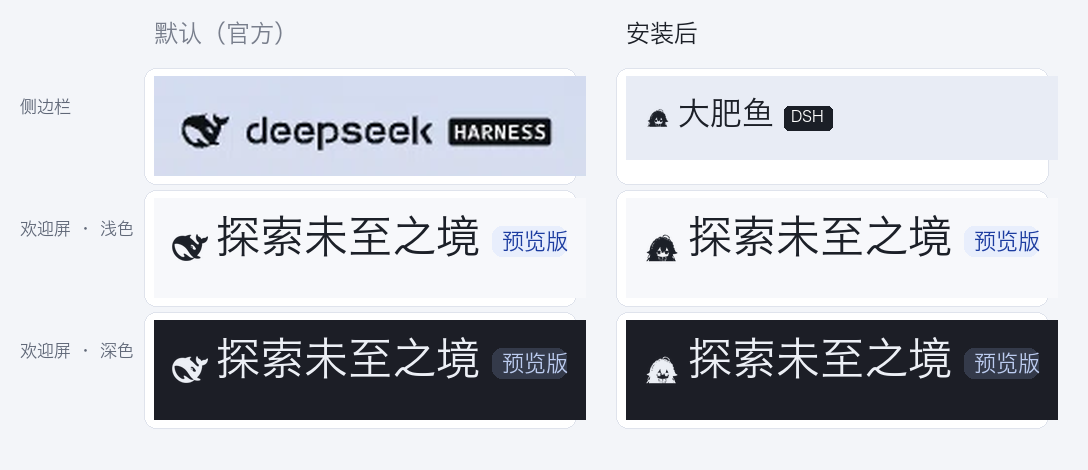
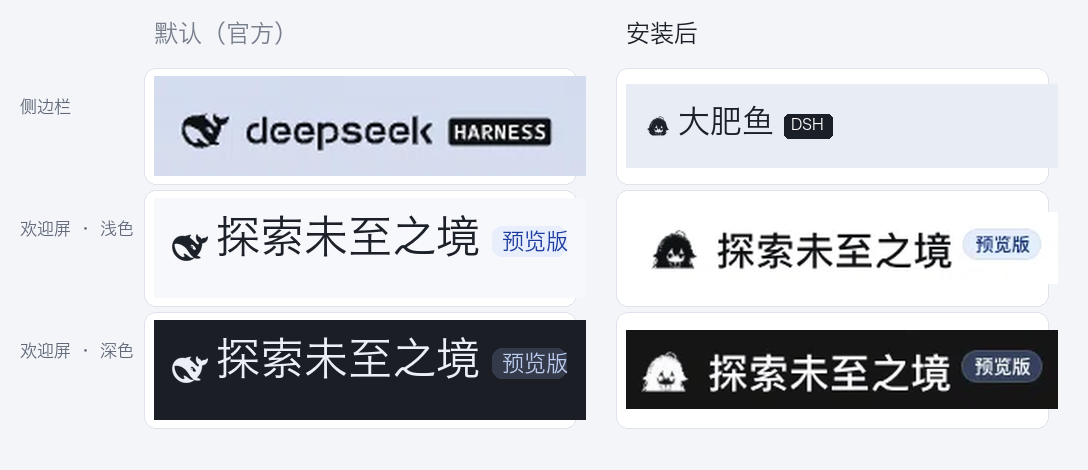
feat: crop the default mark to a circle
The square crop left the chin/hair with a flat bottom edge; a circular crop
gives the glyph its own boundary. Also refreshes the README before/after with
the real welcome-screen screenshots.

diff --git a/lib/index.js b/lib/index.js
@@ -36,7 +36,7 @@ export const inject = ['webServer']
 const DEFAULT_MARK = fileURLToPath(new URL('../assets/default-mark.png', import.meta.url))
 
 /** Bundled silhouette served when `markMode` is `glyph` and `mark` is empty. */
-const DEFAULT_GLYPH = fileURLToPath(new URL('../assets/head-negspace.png', import.meta.url))
+const DEFAULT_GLYPH = fileURLToPath(new URL('../assets/head-circle.png', import.meta.url))
 
 /** Route prefix and JSON override file name under $DSH_HOME. */
 const ROUTE = '/api/dsh-custom-brand'

diff --git a/README.md b/README.md
@@ -91,7 +91,7 @@ curl -s -X PUT -H 'content-type: application/json' \
 
 - **停用**：「插件」页关掉 `大肥鱼品牌图标` 的开关，官方品牌立刻回来
 - **卸载**：`dsh plugin --profile web remove dsh-custom-brand`
-- **换素材**：把 `mark` 指向你的图片即可；`assets/` 里还放了几版备选图（`head-negspace.png` 默认，负空间加粗版；`head-oval.png` 剪影；`head-eyes.png`；`head-silhouette.png`；`head-bust.png`；`fat-fish-glyph.png`）
+- **换素材**：把 `mark` 指向你的图片即可；`assets/` 里还放了几版备选图（`head-circle.png` 默认，负空间加粗 + 圆形裁剪；`head-negspace.png` 方裁；`head-oval.png` 剪影；`head-eyes.png`；`head-silhouette.png`；`head-bust.png`；`fat-fish-glyph.png`）
 
 ## 兼容性
 
